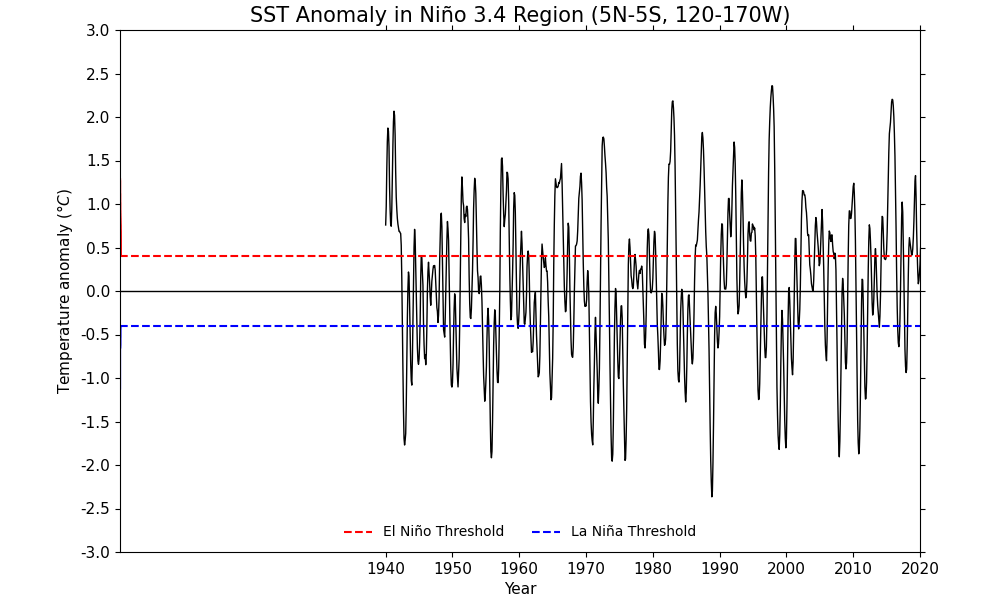
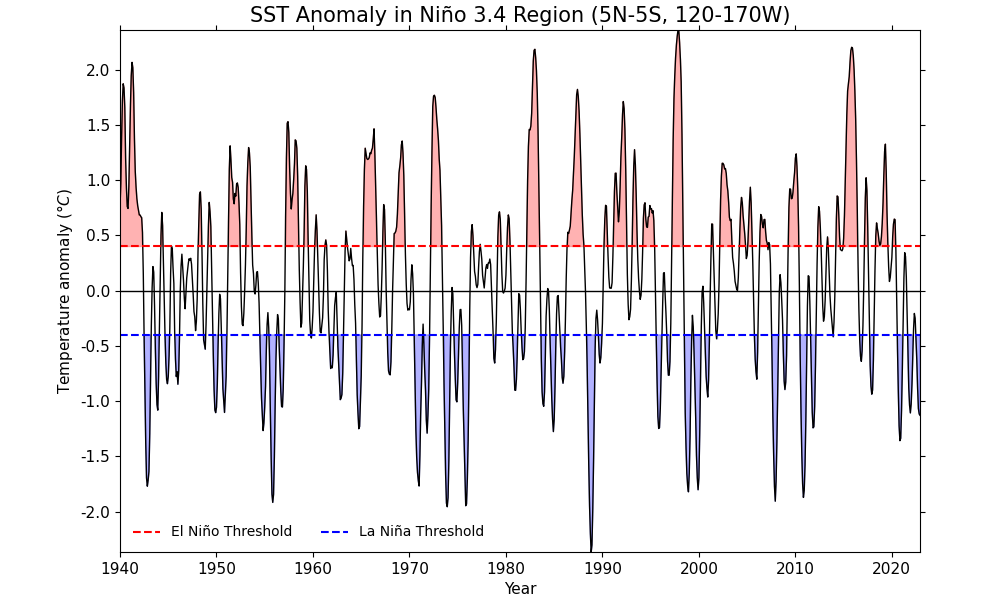
Update files

diff --git a/docs/recipes/plot_13_recipe.html b/docs/recipes/plot_13_recipe.html
@@ -369,7 +369,7 @@ is used to add a legend in the end:</p></li>
 <div class="highlight-python notranslate"><div class="highlight"><pre><span></span><a href="../class/cf.Field.html#cf.Field" title="cf.Field" class="sphx-glr-backref-module-cf sphx-glr-backref-type-py-class sphx-glr-backref-instance"><span class="n">elnino</span></a> <span class="o">=</span> <a href="../class/cf.Field.html#cf.Field" title="cf.Field" class="sphx-glr-backref-module-cf sphx-glr-backref-type-py-class sphx-glr-backref-instance"><span class="n">nino34_rolling</span></a> <span class="o">&gt;=</span> <span class="mf">0.4</span>
 <a href="../class/cf.Field.html#cf.Field" title="cf.Field" class="sphx-glr-backref-module-cf sphx-glr-backref-type-py-class sphx-glr-backref-instance"><span class="n">lanina</span></a> <span class="o">=</span> <a href="../class/cf.Field.html#cf.Field" title="cf.Field" class="sphx-glr-backref-module-cf sphx-glr-backref-type-py-class sphx-glr-backref-instance"><span class="n">nino34_rolling</span></a> <span class="o">&lt;=</span> <span class="o">-</span><span class="mf">0.4</span>
 
-<a href="https://ajheaps.github.io/cf-plot/gset.html#cfplot.gset" title="cfplot.gset" class="sphx-glr-backref-module-cfplot sphx-glr-backref-type-py-function"><span class="n">cfp</span><span class="o">.</span><span class="n">gset</span></a><span class="p">(</span><span class="n">xmin</span><span class="o">=</span><span class="mi">1940</span><span class="p">,</span> <span class="n">xmax</span><span class="o">=</span><span class="mi">2022</span><span class="p">,</span> <span class="n">ymin</span><span class="o">=-</span><span class="mi">3</span><span class="p">,</span> <span class="n">ymax</span><span class="o">=</span><span class="mi">3</span><span class="p">)</span>
+<span class="c1"># cfp.gset(xmin=&#39;1940-1-1&#39;, xmax=&#39;2022-12-31&#39;, ymin=-3, ymax=3)</span>
 <a href="https://ajheaps.github.io/cf-plot/gopen.html#cfplot.gopen" title="cfplot.gopen" class="sphx-glr-backref-module-cfplot sphx-glr-backref-type-py-function"><span class="n">cfp</span><span class="o">.</span><span class="n">gopen</span></a><span class="p">(</span><span class="n">figsize</span><span class="o">=</span><span class="p">(</span><span class="mi">10</span><span class="p">,</span> <span class="mi">6</span><span class="p">))</span>
 <a href="https://ajheaps.github.io/cf-plot/lineplot.html#cfplot.lineplot" title="cfplot.lineplot" class="sphx-glr-backref-module-cfplot sphx-glr-backref-type-py-function"><span class="n">cfp</span><span class="o">.</span><span class="n">lineplot</span></a><span class="p">(</span>
     <a href="../class/cf.Field.html#cf.Field" title="cf.Field" class="sphx-glr-backref-module-cf sphx-glr-backref-type-py-class sphx-glr-backref-instance"><span class="n">nino34_rolling</span></a><span class="p">,</span>
@@ -386,7 +386,7 @@ is used to add a legend in the end:</p></li>
 <span class="p">)</span>
 <span class="n">cfp</span><span class="o">.</span><span class="n">plotvars</span><span class="o">.</span><span class="n">plot</span><span class="o">.</span><span class="n">axhline</span><span class="p">(</span><span class="mi">0</span><span class="p">,</span> <span class="n">color</span><span class="o">=</span><span class="s2">&quot;black&quot;</span><span class="p">,</span> <span class="n">linestyle</span><span class="o">=</span><span class="s2">&quot;-&quot;</span><span class="p">,</span> <span class="n">linewidth</span><span class="o">=</span><span class="mi">1</span><span class="p">)</span>
 <span class="n">cfp</span><span class="o">.</span><span class="n">plotvars</span><span class="o">.</span><span class="n">plot</span><span class="o">.</span><span class="n">fill_between</span><span class="p">(</span>
-    <a href="../method/cf.Field.coordinate.html#cf.Field.coordinate" title="cf.Field.coordinate" class="sphx-glr-backref-module-cf sphx-glr-backref-type-py-method"><span class="n">nino34_rolling</span><span class="o">.</span><span class="n">coordinate</span></a><span class="p">(</span><span class="s2">&quot;T&quot;</span><span class="p">)</span><span class="o">.</span><span class="n">year</span><span class="p">,</span>
+    <a href="../method/cf.Field.coordinate.html#cf.Field.coordinate" title="cf.Field.coordinate" class="sphx-glr-backref-module-cf sphx-glr-backref-type-py-method"><span class="n">nino34_rolling</span><span class="o">.</span><span class="n">coordinate</span></a><span class="p">(</span><span class="s2">&quot;T&quot;</span><span class="p">)</span><span class="o">.</span><span class="n">array</span><span class="p">,</span>
     <span class="mf">0.4</span><span class="p">,</span>
     <a href="../attribute/cf.Field.array.html#cf.Field.array" title="cf.Field.array" class="sphx-glr-backref-module-cf sphx-glr-backref-type-py-attribute"><span class="n">nino34_rolling</span><span class="o">.</span><span class="n">array</span><span class="o">.</span><span class="n">squeeze</span></a><span class="p">(),</span>
     <span class="n">where</span><span class="o">=</span><a href="../method/cf.Field.squeeze.html#cf.Field.squeeze" title="cf.Field.squeeze" class="sphx-glr-backref-module-cf sphx-glr-backref-type-py-method"><span class="n">elnino</span><span class="o">.</span><span class="n">squeeze</span></a><span class="p">(),</span>
@@ -394,18 +394,18 @@ is used to add a legend in the end:</p></li>
     <span class="n">alpha</span><span class="o">=</span><span class="mf">0.3</span><span class="p">,</span>
 <span class="p">)</span>
 <span class="n">cfp</span><span class="o">.</span><span class="n">plotvars</span><span class="o">.</span><span class="n">plot</span><span class="o">.</span><span class="n">fill_between</span><span class="p">(</span>
-    <a href="../method/cf.Field.coordinate.html#cf.Field.coordinate" title="cf.Field.coordinate" class="sphx-glr-backref-module-cf sphx-glr-backref-type-py-method"><span class="n">nino34_rolling</span><span class="o">.</span><span class="n">coordinate</span></a><span class="p">(</span><span class="s2">&quot;T&quot;</span><span class="p">)</span><span class="o">.</span><span class="n">year</span><span class="p">,</span>
+    <a href="../method/cf.Field.coordinate.html#cf.Field.coordinate" title="cf.Field.coordinate" class="sphx-glr-backref-module-cf sphx-glr-backref-type-py-method"><span class="n">nino34_rolling</span><span class="o">.</span><span class="n">coordinate</span></a><span class="p">(</span><span class="s2">&quot;T&quot;</span><span class="p">)</span><span class="o">.</span><span class="n">array</span><span class="p">,</span>
     <span class="o">-</span><span class="mf">0.4</span><span class="p">,</span>
     <a href="../attribute/cf.Field.array.html#cf.Field.array" title="cf.Field.array" class="sphx-glr-backref-module-cf sphx-glr-backref-type-py-attribute"><span class="n">nino34_rolling</span><span class="o">.</span><span class="n">array</span><span class="o">.</span><span class="n">squeeze</span></a><span class="p">(),</span>
     <span class="n">where</span><span class="o">=</span><a href="../method/cf.Field.squeeze.html#cf.Field.squeeze" title="cf.Field.squeeze" class="sphx-glr-backref-module-cf sphx-glr-backref-type-py-method"><span class="n">lanina</span><span class="o">.</span><span class="n">squeeze</span></a><span class="p">(),</span>
     <span class="n">color</span><span class="o">=</span><span class="s2">&quot;blue&quot;</span><span class="p">,</span>
     <span class="n">alpha</span><span class="o">=</span><span class="mf">0.3</span><span class="p">,</span>
 <span class="p">)</span>
-<span class="n">cfp</span><span class="o">.</span><span class="n">plotvars</span><span class="o">.</span><span class="n">plot</span><span class="o">.</span><span class="n">legend</span><span class="p">(</span><span class="n">frameon</span><span class="o">=</span><span class="kc">False</span><span class="p">,</span> <span class="n">loc</span><span class="o">=</span><span class="s2">&quot;lower center&quot;</span><span class="p">,</span> <span class="n">ncol</span><span class="o">=</span><span class="mi">2</span><span class="p">)</span>
+<span class="n">cfp</span><span class="o">.</span><span class="n">plotvars</span><span class="o">.</span><span class="n">plot</span><span class="o">.</span><span class="n">legend</span><span class="p">(</span><span class="n">frameon</span><span class="o">=</span><span class="kc">False</span><span class="p">,</span> <span class="n">loc</span><span class="o">=</span><span class="s2">&quot;lower left&quot;</span><span class="p">,</span> <span class="n">ncol</span><span class="o">=</span><span class="mi">2</span><span class="p">)</span>
 <a href="https://ajheaps.github.io/cf-plot/gclose.html#cfplot.gclose" title="cfplot.gclose" class="sphx-glr-backref-module-cfplot sphx-glr-backref-type-py-function"><span class="n">cfp</span><span class="o">.</span><span class="n">gclose</span></a><span class="p">()</span>
 </pre></div>
 </div>
-<img src="../_images/sphx_glr_plot_13_recipe_002.png" srcset="../_images/sphx_glr_plot_13_recipe_002.png" alt="SST Anomaly in Niño 3.4 Region (5N-5S, 120-170W)" class = "sphx-glr-single-img"/><p class="sphx-glr-timing"><strong>Total running time of the script:</strong> ( 1 minutes  42.839 seconds)</p>
+<img src="../_images/sphx_glr_plot_13_recipe_002.png" srcset="../_images/sphx_glr_plot_13_recipe_002.png" alt="SST Anomaly in Niño 3.4 Region (5N-5S, 120-170W)" class = "sphx-glr-single-img"/><p class="sphx-glr-timing"><strong>Total running time of the script:</strong> ( 4 minutes  49.796 seconds)</p>
 <div class="sphx-glr-footer sphx-glr-footer-example docutils container" id="sphx-glr-download-recipes-plot-13-recipe-py">
 <div class="sphx-glr-download sphx-glr-download-python docutils container">
 <p><a class="reference download internal" download="" href="../_downloads/plot_13_recipe.py"><code class="xref download docutils literal notranslate"><span class="pre">Download</span> <span class="pre">Python</span> <span class="pre">source</span> <span class="pre">code:</span> <span class="pre">plot_13_recipe.py</span></code></a></p>
@@ -425,7 +425,7 @@ is used to add a legend in the end:</p></li>
     <div class="clearer"></div>
   </div>
     <div class="footer">
-      &copy;2023, NCAS | Page built on 2023-07-28.
+      &copy;2023, NCAS | Page built on 2023-08-01.
       
       |
       Powered by <a href="http://sphinx-doc.org/">Sphinx 2.4.5</a>

diff --git a/docs/_downloads/plot_13_recipe.py b/docs/_downloads/plot_13_recipe.py
@@ -229,7 +229,7 @@ nino34_rolling = nino34_anomaly.moving_window(
 elnino = nino34_rolling >= 0.4
 lanina = nino34_rolling <= -0.4
 
-cfp.gset(xmin=1940, xmax=2022, ymin=-3, ymax=3)
+# cfp.gset(xmin='1940-1-1', xmax='2022-12-31', ymin=-3, ymax=3)
 cfp.gopen(figsize=(10, 6))
 cfp.lineplot(
     nino34_rolling,
@@ -246,7 +246,7 @@ cfp.plotvars.plot.axhline(
 )
 cfp.plotvars.plot.axhline(0, color="black", linestyle="-", linewidth=1)
 cfp.plotvars.plot.fill_between(
-    nino34_rolling.coordinate("T").year,
+    nino34_rolling.coordinate("T").array,
     0.4,
     nino34_rolling.array.squeeze(),
     where=elnino.squeeze(),
@@ -254,12 +254,12 @@ cfp.plotvars.plot.fill_between(
     alpha=0.3,
 )
 cfp.plotvars.plot.fill_between(
-    nino34_rolling.coordinate("T").year,
+    nino34_rolling.coordinate("T").array,
     -0.4,
     nino34_rolling.array.squeeze(),
     where=lanina.squeeze(),
     color="blue",
     alpha=0.3,
 )
-cfp.plotvars.plot.legend(frameon=False, loc="lower center", ncol=2)
+cfp.plotvars.plot.legend(frameon=False, loc="lower left", ncol=2)
 cfp.gclose()

diff --git a/docs/source/recipes/plot_13_recipe.py b/docs/source/recipes/plot_13_recipe.py
@@ -229,7 +229,7 @@ nino34_rolling = nino34_anomaly.moving_window(
 elnino = nino34_rolling >= 0.4
 lanina = nino34_rolling <= -0.4
 
-cfp.gset(xmin=1940, xmax=2022, ymin=-3, ymax=3)
+# cfp.gset(xmin='1940-1-1', xmax='2022-12-31', ymin=-3, ymax=3)
 cfp.gopen(figsize=(10, 6))
 cfp.lineplot(
     nino34_rolling,
@@ -246,7 +246,7 @@ cfp.plotvars.plot.axhline(
 )
 cfp.plotvars.plot.axhline(0, color="black", linestyle="-", linewidth=1)
 cfp.plotvars.plot.fill_between(
-    nino34_rolling.coordinate("T").year,
+    nino34_rolling.coordinate("T").array,
     0.4,
     nino34_rolling.array.squeeze(),
     where=elnino.squeeze(),
@@ -254,12 +254,12 @@ cfp.plotvars.plot.fill_between(
     alpha=0.3,
 )
 cfp.plotvars.plot.fill_between(
-    nino34_rolling.coordinate("T").year,
+    nino34_rolling.coordinate("T").array,
     -0.4,
     nino34_rolling.array.squeeze(),
     where=lanina.squeeze(),
     color="blue",
     alpha=0.3,
 )
-cfp.plotvars.plot.legend(frameon=False, loc="lower center", ncol=2)
+cfp.plotvars.plot.legend(frameon=False, loc="lower left", ncol=2)
 cfp.gclose()
